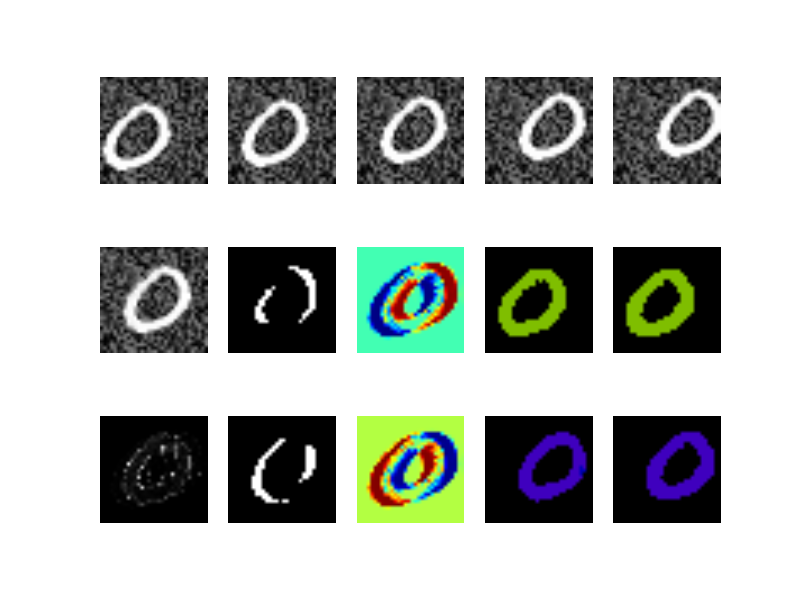
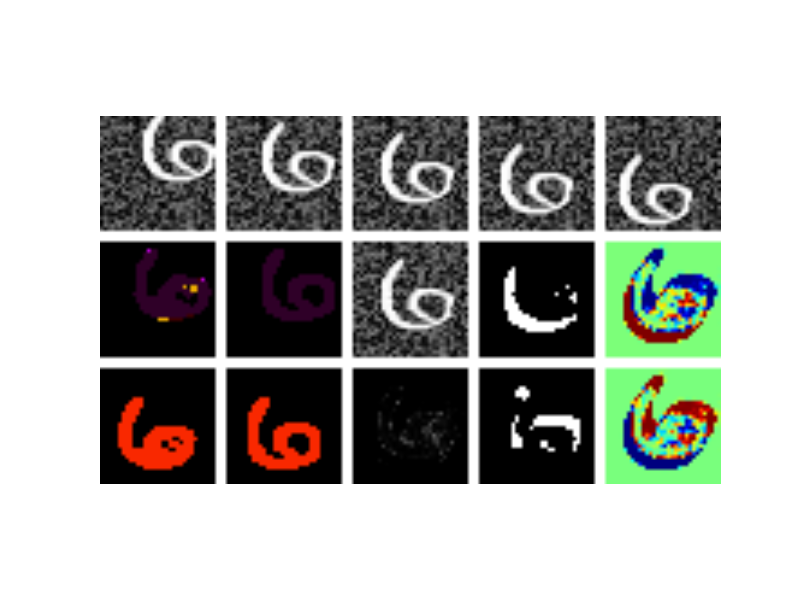
better visualization exp012

diff --git a/exp012/main.py b/exp012/main.py
@@ -1,17 +1,16 @@
 import os
 import numpy
-import cv2
 import logging
 import torch
 import torch.nn as nn
 import torch.optim as optim
 from torch.autograd import Variable
 import torch.nn.functional as F
-import matplotlib.pyplot as plt
 
 from learning_args import parse_args
 from data import generate_images, motion_dict, load_mnist
 from models import FullyConvNet, FullyConvResNet, UNet, UNetBidirection
+from visualize import visualize
 logging.basicConfig(format='[%(levelname)s %(asctime)s %(filename)s:%(lineno)s] %(message)s',
                             level=logging.INFO)
 
@@ -66,21 +65,6 @@ def train_supervised(args, model, images, m_dict, reverse_m_dict, m_kernel):
             logging.info('epoch %d, testing', epoch)
             best_test_acc = validate(args, model, images, m_dict, reverse_m_dict, m_kernel, best_test_acc)
     return model
-
-
-def label2flow(motion_label, m_range, reverse_m_dict):
-    motion = numpy.zeros((motion_label.shape[0], motion_label.shape[1], 2))
-    for i in range(motion_label.shape[0]):
-        for j in range(motion_label.shape[1]):
-            motion[i, j, :] = numpy.asarray(reverse_m_dict[motion_label[i, j]])
-    mag, ang = cv2.cartToPolar(motion[..., 0], motion[..., 1])
-    hsv = numpy.zeros((motion.shape[0], motion.shape[1], 3), dtype=float)
-    hsv[..., 0] = ang * 180 / numpy.pi / 2
-    hsv[..., 1] = 255
-    hsv[..., 2] = mag * 255.0 / m_range / numpy.sqrt(2)
-    # hsv[...,2] = cv2.normalize(mag,None,0,255,cv2.NORM_MINMAX)
-    rgb = cv2.cvtColor(hsv.astype(numpy.uint8), cv2.COLOR_HSV2BGR)
-    return rgb
 
 
 def construct_image(im, motion, m_range, m_kernel, padding=0):
@@ -168,68 +152,6 @@ def test_unsupervised(args, model, images, m_dict, reverse_m_dict, m_kernel):
     test_accuracy = numpy.mean(numpy.asarray(test_accuracy))
     logging.info('average testing accuracy: %.2f', test_accuracy)
     return test_accuracy
-
-
-def visualize(im1, im2, im3, im4, im5, pred, pred_motion_f, gt_motion_f, attn_f, pred_motion_b, gt_motion_b, attn_b, m_range, m_dict, reverse_m_dict):
-    plt.figure(1)
-    plt.subplot(3,5,1)
-    plt.imshow(im1[0].cpu().data.numpy().squeeze(), cmap='gray')
-    plt.axis('off')
-    plt.subplot(3,5,2)
-    plt.imshow(im2[0].cpu().data.numpy().squeeze(), cmap='gray')
-    plt.axis('off')
-    plt.subplot(3,5,3)
-    plt.imshow(im3[0].cpu().data.numpy().squeeze(), cmap='gray')
-    plt.axis('off')
-    plt.subplot(3,5,4)
-    plt.imshow(im4[0].cpu().data.numpy().squeeze(), cmap='gray')
-    plt.axis('off')
-    plt.subplot(3,5,5)
-    plt.imshow(im5[0].cpu().data.numpy().squeeze(), cmap='gray')
-    plt.axis('off')
-    plt.subplot(3,5,6)
-    pred_im = pred[0].cpu().data.numpy().squeeze()
-    pred_im[pred_im > 1] = 1
-    pred_im[pred_im < 0] = 0
-    plt.imshow(pred_im, cmap='gray')
-    plt.axis('off')
-    plt.subplot(3,5,11)
-    im_diff = torch.abs(pred - im3)
-    plt.imshow(im_diff[0].cpu().data.numpy().squeeze(), cmap='gray')
-    plt.axis('off')
-    plt.subplot(3,5,7)
-    pred_disappear = pred_motion_f[0].cpu().data.numpy().squeeze() == len(m_dict)
-    plt.imshow(pred_disappear, cmap='gray')
-    plt.axis('off')
-    plt.subplot(3,5,8)
-    plt.imshow(attn_f[0].cpu().data.numpy().squeeze())
-    plt.axis('off')
-    plt.subplot(3,5,9)
-    pred_motion_f[pred_motion_f == len(m_dict)] = m_dict[(0, 0)]
-    pred_m_f = label2flow(pred_motion_f[0].cpu().data.numpy().squeeze(), m_range, reverse_m_dict)
-    plt.imshow(pred_m_f)
-    plt.axis('off')
-    plt.subplot(3,5,10)
-    gt_m_f = label2flow(gt_motion_f[0].cpu().data.numpy().squeeze(), m_range, reverse_m_dict)
-    plt.imshow(gt_m_f)
-    plt.axis('off')
-    plt.subplot(3,5,12)
-    pred_disappear = pred_motion_b[0].cpu().data.numpy().squeeze() == len(m_dict)
-    plt.imshow(pred_disappear, cmap='gray')
-    plt.axis('off')
-    plt.subplot(3,5,13)
-    plt.imshow(attn_b[0].cpu().data.numpy().squeeze())
-    plt.axis('off')
-    plt.subplot(3,5,14)
-    pred_motion_b[pred_motion_b == len(m_dict)] = m_dict[(0, 0)]
-    pred_m_b = label2flow(pred_motion_b[0].cpu().data.numpy().squeeze(), m_range, reverse_m_dict)
-    plt.imshow(pred_m_b)
-    plt.axis('off')
-    plt.subplot(3,5,15)
-    gt_m_b = label2flow(gt_motion_b[0].cpu().data.numpy().squeeze(), m_range, reverse_m_dict)
-    plt.imshow(gt_m_b)
-    plt.axis('off')
-    plt.show()
 
 
 def main():

diff --git a/exp012/visualize.py b/exp012/visualize.py
@@ -3,9 +3,9 @@ import cv2
 import matplotlib.pyplot as plt
 
 
-def visualize(im1, im2, im3, pred, pred_motion, gt_motion, m_range, m_dict, reverse_m_dict):
+def visualize(im1, im2, im3, im4, im5, pred, pred_motion_f, gt_motion_f, attn_f, pred_motion_b, gt_motion_b, attn_b, m_range, m_dict, reverse_m_dict):
     img_size = im1.size(2)
-    width, height = get_img_size(2, 5, img_size)
+    width, height = get_img_size(3, 5, img_size)
     img = numpy.ones((height, width, 3))
 
     im1 = im1[0].cpu().data.numpy().transpose(1, 2, 0).repeat(3, 2)
@@ -20,7 +20,15 @@ def visualize(im1, im2, im3, pred, pred_motion, gt_motion, m_range, m_dict, reve
     x1, y1, x2, y2 = get_img_coordinate(1, 3, img_size)
     img[y1:y2, x1:x2, :] = im3
 
-    gt_motion = label2flow(gt_motion[0].cpu().data.numpy().squeeze(), m_range, reverse_m_dict)
+    im4 = im4[0].cpu().data.numpy().transpose(1, 2, 0).repeat(3, 2)
+    x1, y1, x2, y2 = get_img_coordinate(1, 4, img_size)
+    img[y1:y2, x1:x2, :] = im4
+
+    im5 = im5[0].cpu().data.numpy().transpose(1, 2, 0).repeat(3, 2)
+    x1, y1, x2, y2 = get_img_coordinate(1, 5, img_size)
+    img[y1:y2, x1:x2, :] = im5
+
+    gt_motion = label2flow(gt_motion_f[0].cpu().data.numpy().squeeze(), m_range, reverse_m_dict)
     x1, y1, x2, y2 = get_img_coordinate(2, 2, img_size)
     img[y1:y2, x1:x2, :] = gt_motion
 
@@ -31,18 +39,45 @@ def visualize(im1, im2, im3, pred, pred_motion, gt_motion, m_range, m_dict, reve
     img[y1:y2, x1:x2, :] = pred
 
     im_diff = numpy.abs(pred - im3)
-    x1, y1, x2, y2 = get_img_coordinate(2, 4, img_size)
+    x1, y1, x2, y2 = get_img_coordinate(3, 3, img_size)
     img[y1:y2, x1:x2, :] = im_diff
 
-    disappear = pred_motion[0].cpu().data.numpy() == len(m_dict)
+    disappear = pred_motion_f[0].cpu().data.numpy() == len(m_dict)
     disappear = disappear.transpose(1, 2, 0).repeat(3, 2)
-    x1, y1, x2, y2 = get_img_coordinate(2, 5, img_size)
+    x1, y1, x2, y2 = get_img_coordinate(2, 4, img_size)
     img[y1:y2, x1:x2, :] = disappear
 
+    attn = attn_f[0].cpu().data.numpy().squeeze()
+    cmap = plt.get_cmap('jet')
+    attn = cmap(attn)[:, :, 0:3]
+    x1, y1, x2, y2 = get_img_coordinate(2, 5, img_size)
+    img[y1:y2, x1:x2, :] = attn
+
     # This line assumes disappeared pixels have motion 0, which should be changed in the future.
-    pred_motion[pred_motion == len(m_dict)] = m_dict[(0, 0)]
-    pred_motion = label2flow(pred_motion[0].cpu().data.numpy().squeeze(), m_range, reverse_m_dict)
+    pred_motion_f[pred_motion_f == len(m_dict)] = m_dict[(0, 0)]
+    pred_motion = label2flow(pred_motion_f[0].cpu().data.numpy().squeeze(), m_range, reverse_m_dict)
     x1, y1, x2, y2 = get_img_coordinate(2, 1, img_size)
+    img[y1:y2, x1:x2, :] = pred_motion
+
+    gt_motion = label2flow(gt_motion_b[0].cpu().data.numpy().squeeze(), m_range, reverse_m_dict)
+    x1, y1, x2, y2 = get_img_coordinate(3, 2, img_size)
+    img[y1:y2, x1:x2, :] = gt_motion
+
+    disappear = pred_motion_b[0].cpu().data.numpy() == len(m_dict)
+    disappear = disappear.transpose(1, 2, 0).repeat(3, 2)
+    x1, y1, x2, y2 = get_img_coordinate(3, 4, img_size)
+    img[y1:y2, x1:x2, :] = disappear
+
+    attn = attn_b[0].cpu().data.numpy().squeeze()
+    cmap = plt.get_cmap('jet')
+    attn = cmap(attn)[:, :, 0:3]
+    x1, y1, x2, y2 = get_img_coordinate(3, 5, img_size)
+    img[y1:y2, x1:x2, :] = attn
+
+    # This line assumes disappeared pixels have motion 0, which should be changed in the future.
+    pred_motion_b[pred_motion_b == len(m_dict)] = m_dict[(0, 0)]
+    pred_motion = label2flow(pred_motion_b[0].cpu().data.numpy().squeeze(), m_range, reverse_m_dict)
+    x1, y1, x2, y2 = get_img_coordinate(3, 1, img_size)
     img[y1:y2, x1:x2, :] = pred_motion
 
     plt.figure(1)
